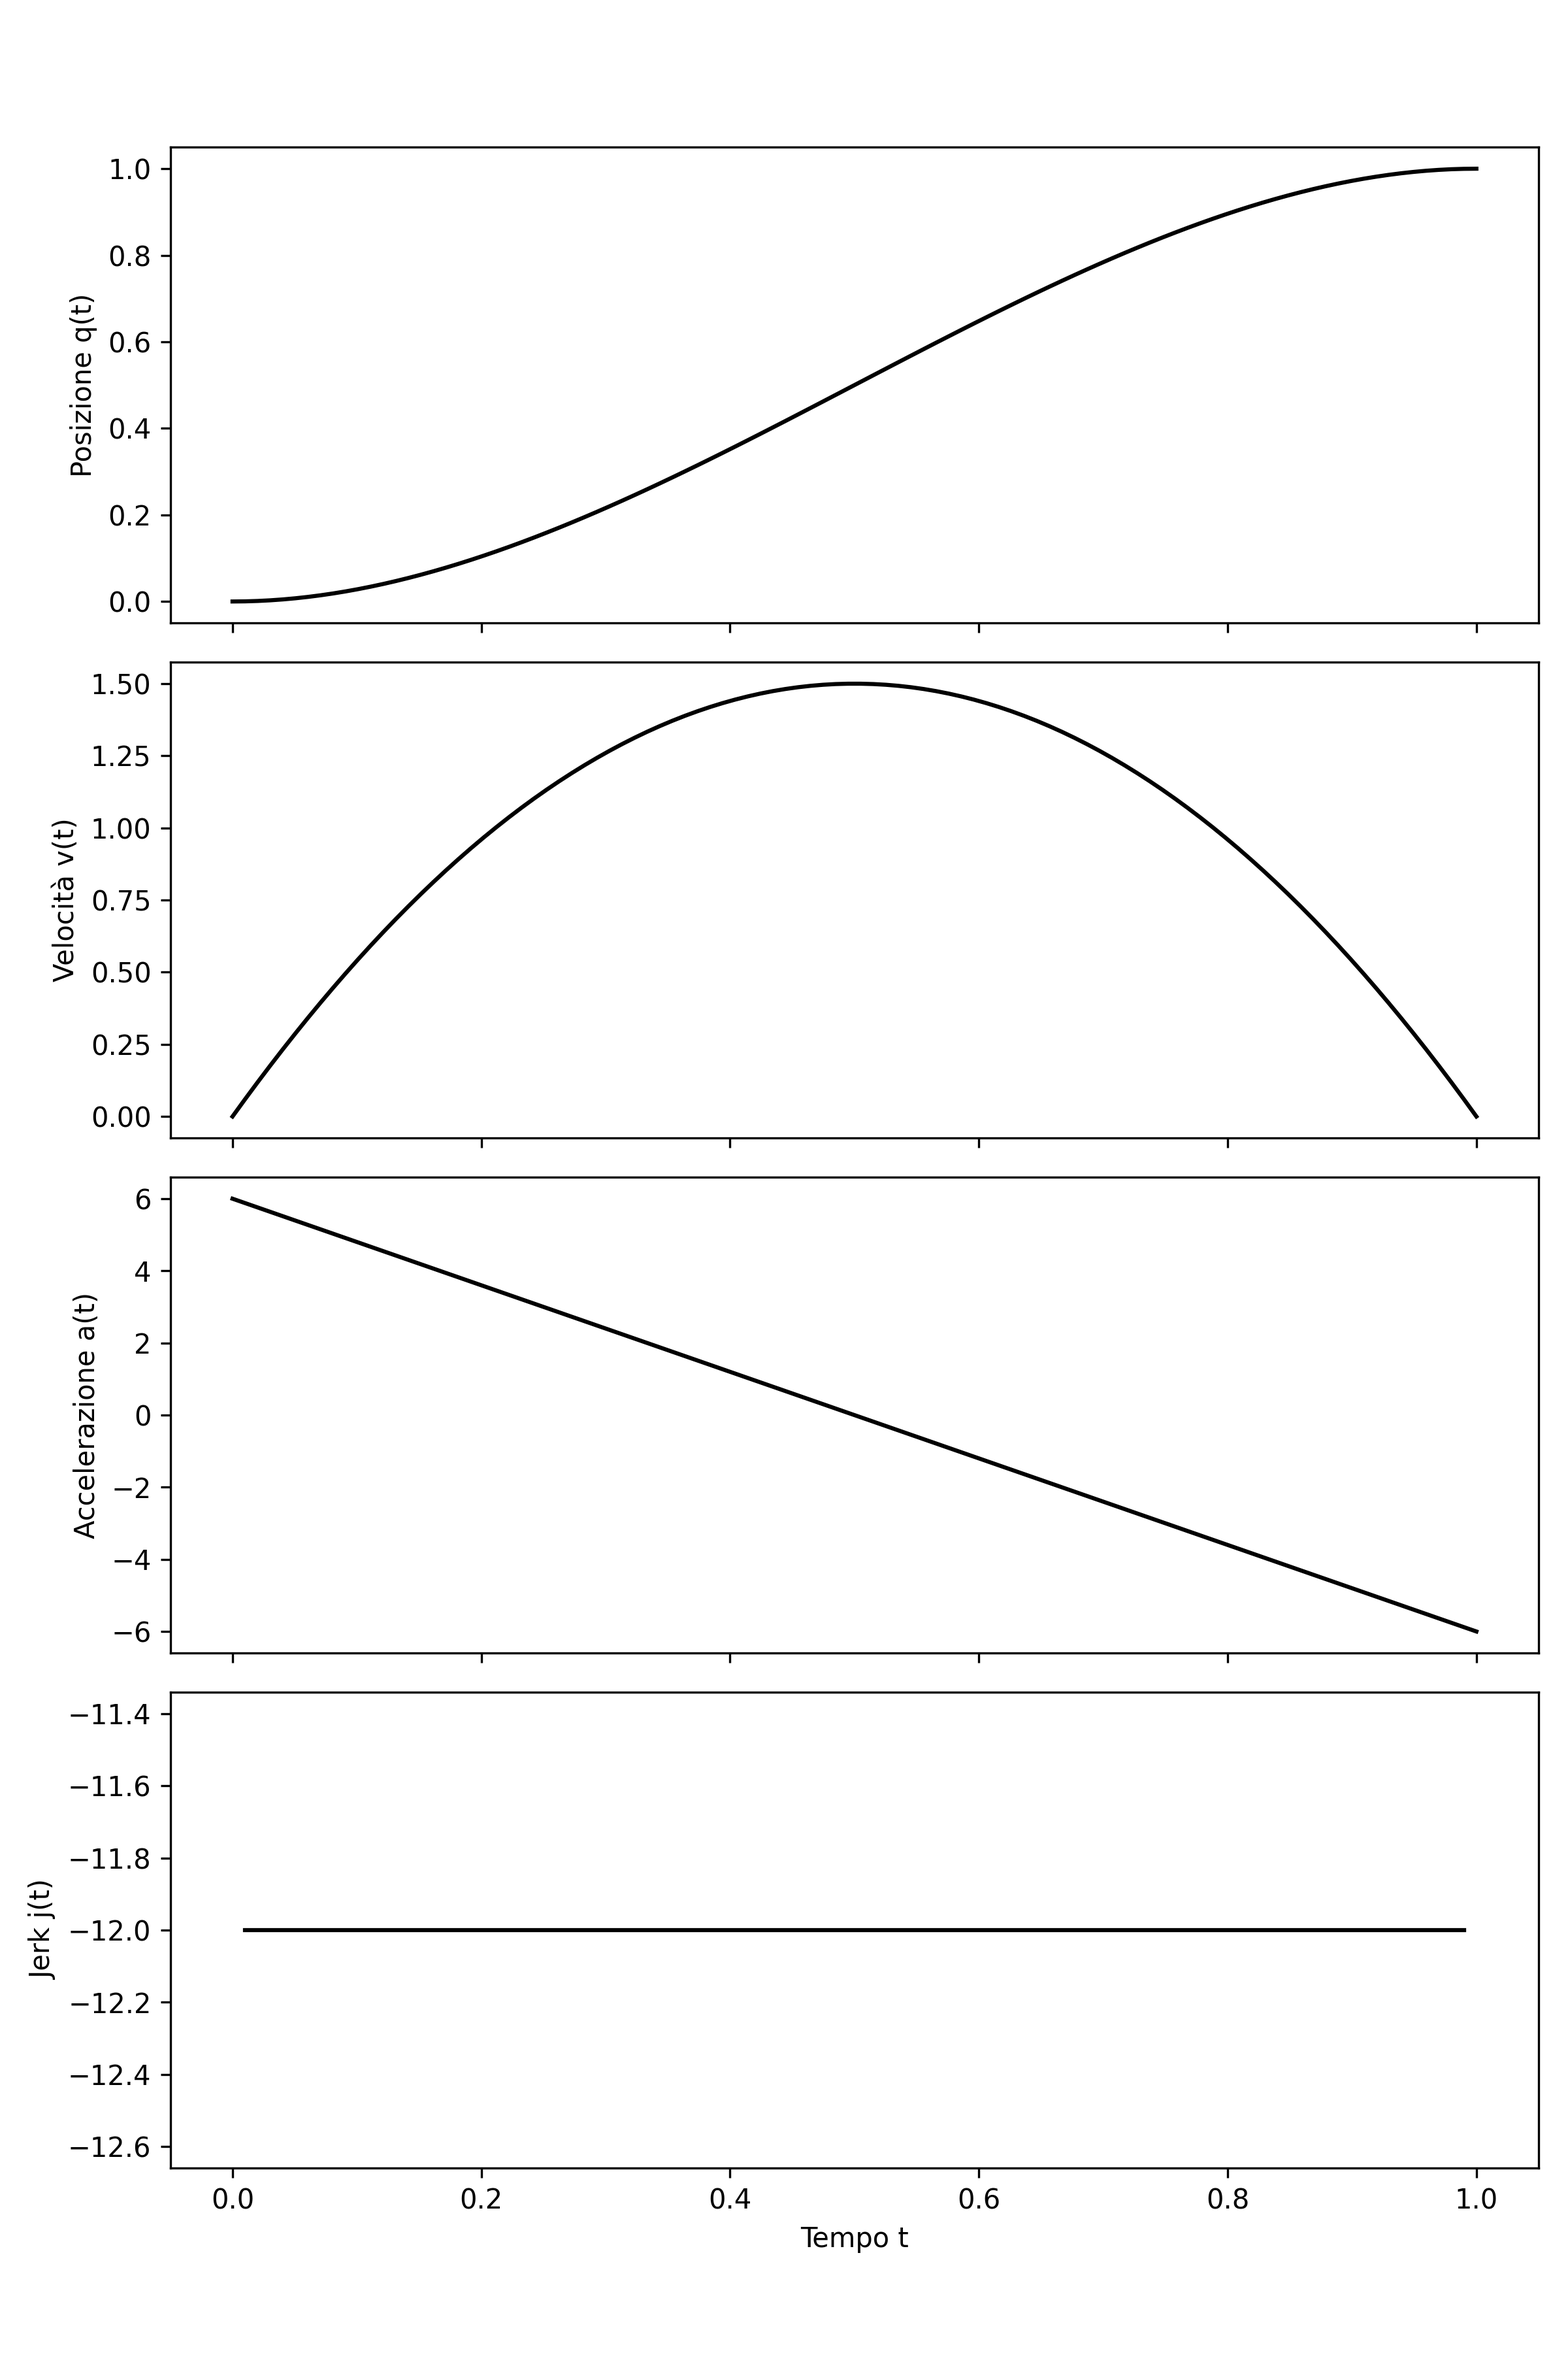
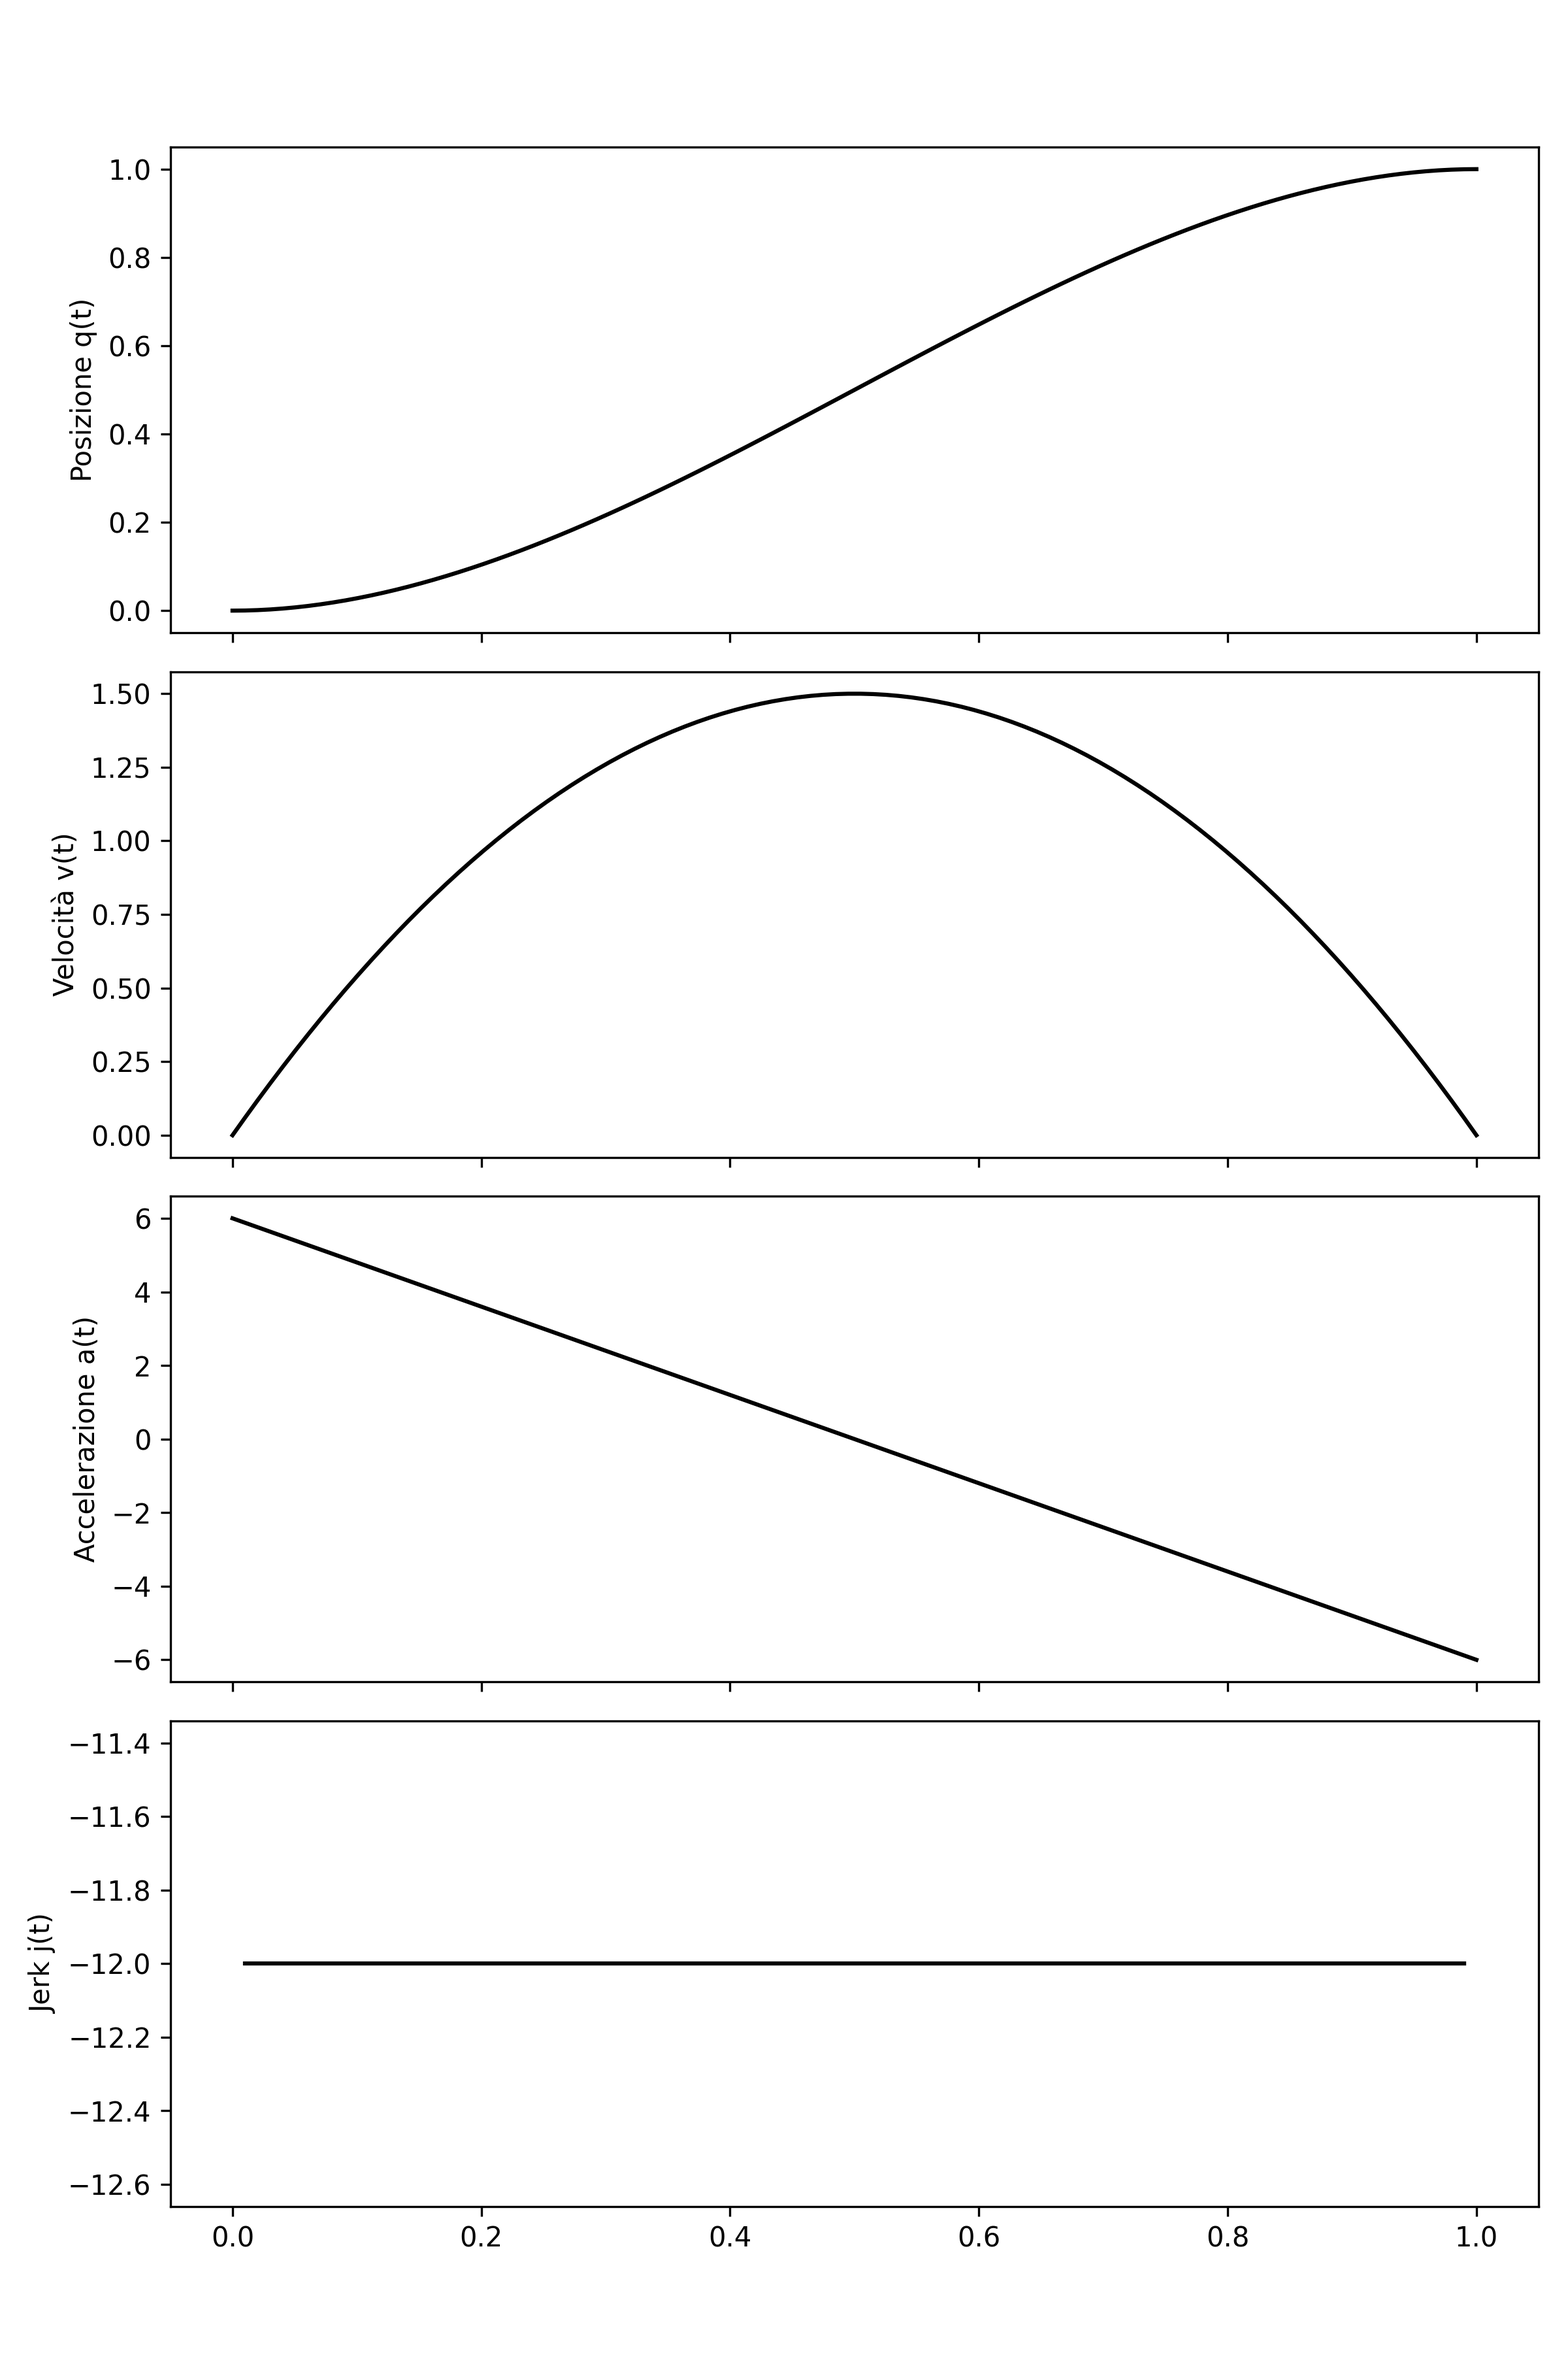
Sistemato grafico di polinomiale 3° grado che aveva la label su asse x che non c'era negli altri 3; Aggiunto confronto posizione tra le varie polinomiali; Sistemato un footnote che era confuso

diff --git a/Sottofile/PianificazioneMoto.tex b/Sottofile/PianificazioneMoto.tex
@@ -157,7 +157,7 @@ Considerando la condizione RtR e usando la normalizzazione, considero gli step d
     \item Punti per velocità e accelerazioni nulle
     \item Determinazione massimo velocità in \(t=1/2\)
     \item Tracciamento della velocità
-    \item Valutazioni sulle tangenti di accelerazione agli istanti iniziali e finali: per un polinomio di terzo grado\footnote{Che è quello che si ottiene in accelerazione, avendo derivato due volte un polinomio di quinto grado.} ci sono 2 punti a tangente nulla e devono essere in corrispondenza dei valori di massimo e minimo\footnote{Non è possibile porli a inizio e fine perché altrimenti l'accelerazione dovrebbe rimanere costantemente nulla. {\color{red}(verificare l'affermazione)}}
+    \item Valutazioni sulle tangenti di accelerazione agli istanti iniziali e finali: per un polinomio di terzo grado\footnote{Che è quello che si ottiene in accelerazione, avendo derivato due volte un polinomio di quinto grado.} ci sono 2 punti a tangente nulla e devono essere in corrispondenza dei valori di massimo e minimo\footnote{Non è possibile porre a tangenti nulle i valori iniziali e finali perché altrimenti l'accelerazione dovrebbe rimanere costante. {\color{red}(verificare l'affermazione)}}
     \item Tracciamento dell'accelerazione
     \item Tracciamento del jerk a partire da punti notevoli dell'accelerazione e soprattutto valutazioni su punti di discontinuità presenti nei punti iniziali e finali (legate a considerazione su accelerazione di cui sopra)
     \item Tracciamento della posizione prestando attenzione alle tangenti nulle iniziali e finali.

diff --git a/extra/confronto_polinomiali.py b/extra/confronto_polinomiali.py
@@ -1,0 +1,26 @@
+import numpy as np
+import matplotlib.pyplot as plt
+
+# Definisco il tempo
+t = np.linspace(0, 1, 100)
+
+# Definizione della funzione di posizione q(t) terzo grado
+def q3(t):
+    return 3 * t**2 - 2 * t**3
+
+# Definizione della funzione di posizione q(t) per il polinomio di quinto grado
+def q5(t):
+    return 10 * t**3 - 15 * t**4 + 6 * t**5  # Un esempio di polinomio di quinto grado
+
+# Definizione della funzione di posizione q(t) per il polinomio di quinto grado
+def q7(t):
+    return 35 * t**4 - 84 * t**5 + 70 * t**6 - 20 * t**7  # Un esempio di polinomio di quinto grado
+
+
+# Creazione dei grafici
+plt.plot(t,q3(t), label="Grado 3")
+plt.plot(t,q5(t), label="Grado 5")
+plt.plot(t,q7(t), label="Grado 7")
+plt.legend()
+plt.tight_layout(rect=[0, 0.03, 1, 0.95])
+plt.savefig("confronto_polin.png", dpi=300)

diff --git a/extra/polinom_terzo_grado.py b/extra/polinom_terzo_grado.py
@@ -38,7 +38,6 @@ axs[2].set_ylabel("Accelerazione a(t)")
 
 # Grafico del jerk
 axs[3].plot(t, j(t), color="black")
-axs[3].set_xlabel("Tempo t")
 axs[3].set_ylabel("Jerk j(t)")
 
 plt.subplots_adjust(hspace=0.2)
